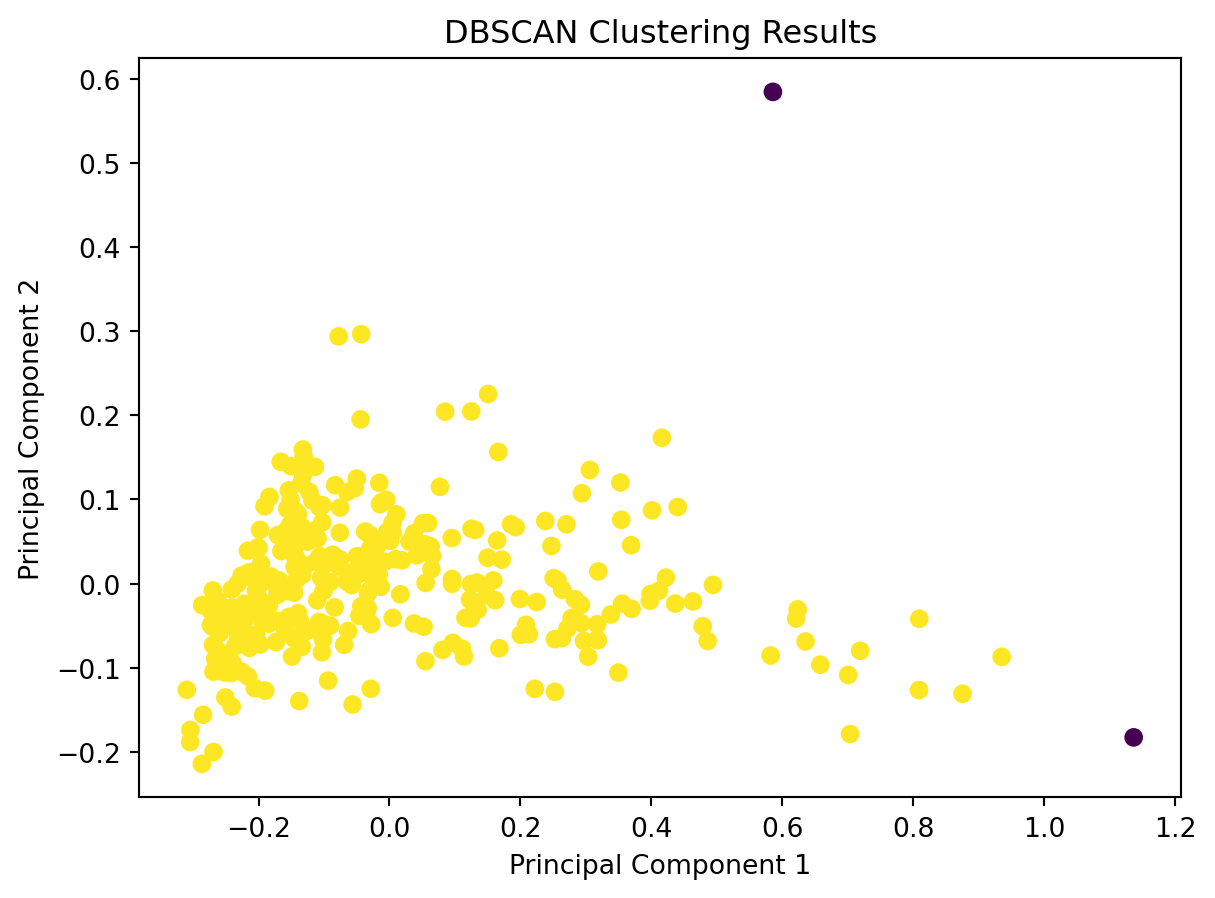
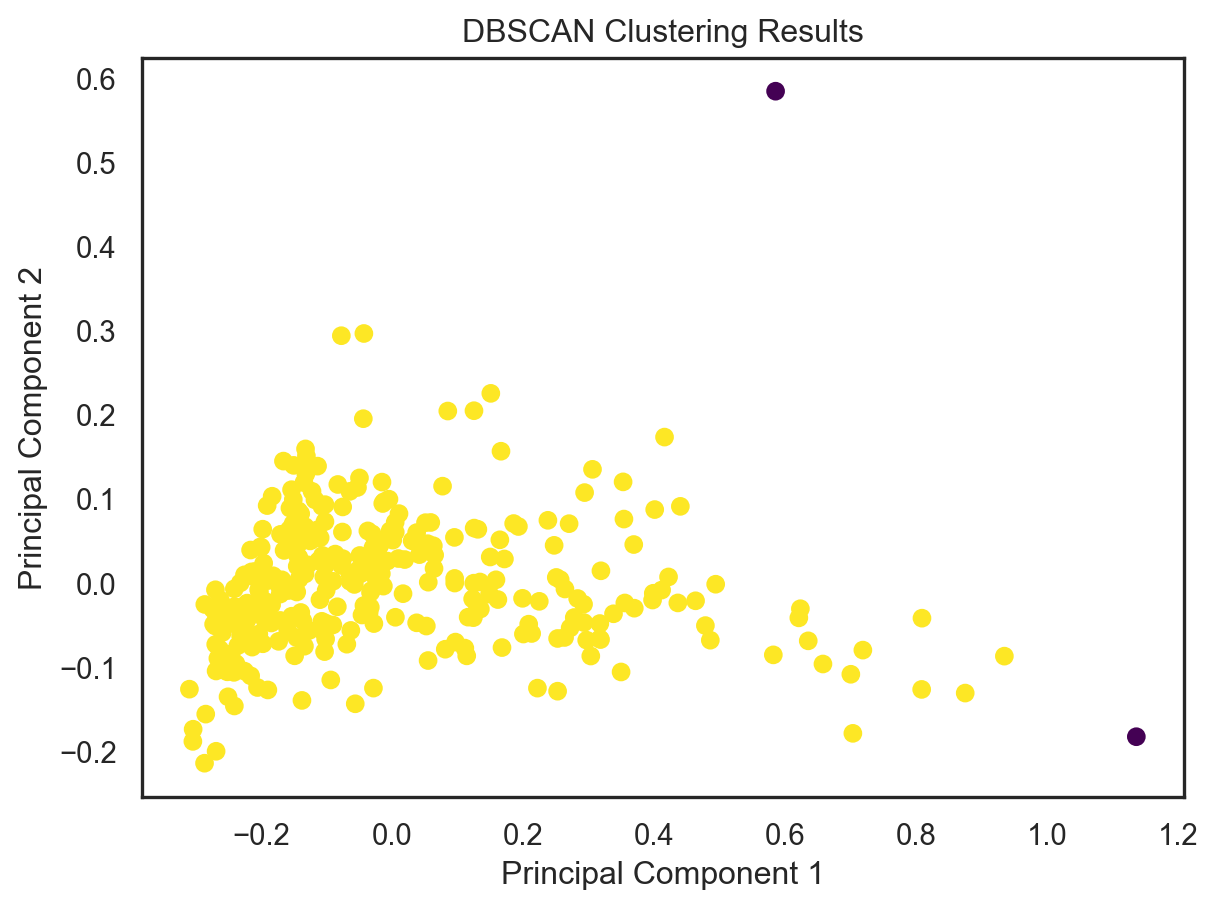
commit #outlier again

diff --git a/docs/posts/Outlier/index.html b/docs/posts/Outlier/index.html
@@ -200,7 +200,7 @@ pre > code.sourceCode > span > a:first-child::before { text-decoration: underlin
 <span id="cb2-5"><a href="#cb2-5" aria-hidden="true" tabindex="-1"></a></span>
 <span id="cb2-6"><a href="#cb2-6" aria-hidden="true" tabindex="-1"></a><span class="co"># Display the first few rows of the data</span></span>
 <span id="cb2-7"><a href="#cb2-7" aria-hidden="true" tabindex="-1"></a>data</span></code><button title="Copy to Clipboard" class="code-copy-button"><i class="bi"></i></button></pre></div>
-<div class="cell-output cell-output-display" data-execution_count="10">
+<div class="cell-output cell-output-display" data-execution_count="33">
 <div>
 
 
@@ -398,7 +398,7 @@ pre > code.sourceCode > span > a:first-child::before { text-decoration: underlin
 <p>Identify null data</p>
 <div class="cell" data-execution_count="3">
 <div class="sourceCode cell-code" id="cb3"><pre class="sourceCode python code-with-copy"><code class="sourceCode python"><span id="cb3-1"><a href="#cb3-1" aria-hidden="true" tabindex="-1"></a>data.<span class="bu">apply</span>(pd.isnull).<span class="bu">sum</span>()<span class="op">/</span>data.shape[<span class="dv">0</span>]</span></code><button title="Copy to Clipboard" class="code-copy-button"><i class="bi"></i></button></pre></div>
-<div class="cell-output cell-output-display" data-execution_count="11">
+<div class="cell-output cell-output-display" data-execution_count="34">
 <pre><code>Player            0.0
 Span              0.0
 Mat               0.0
@@ -416,7 +416,7 @@ dtype: float64</code></pre>
 </div>
 <div class="cell" data-execution_count="4">
 <div class="sourceCode cell-code" id="cb5"><pre class="sourceCode python code-with-copy"><code class="sourceCode python"><span id="cb5-1"><a href="#cb5-1" aria-hidden="true" tabindex="-1"></a>data.describe(include<span class="op">=</span><span class="st">'object'</span>)</span></code><button title="Copy to Clipboard" class="code-copy-button"><i class="bi"></i></button></pre></div>
-<div class="cell-output cell-output-display" data-execution_count="12">
+<div class="cell-output cell-output-display" data-execution_count="35">
 <div>
 
 
@@ -504,7 +504,7 @@ dtype: float64</code></pre>
 <div class="sourceCode cell-code" id="cb6"><pre class="sourceCode python code-with-copy"><code class="sourceCode python"><span id="cb6-1"><a href="#cb6-1" aria-hidden="true" tabindex="-1"></a>cricket<span class="op">=</span>data[[<span class="st">"Player"</span>,<span class="st">"Span"</span>,<span class="st">"Mat"</span>,<span class="st">"Inn"</span>,<span class="st">"Runs"</span>,<span class="st">"Avg"</span>,<span class="st">"100"</span>,<span class="st">"50"</span>]].copy()</span>
 <span id="cb6-2"><a href="#cb6-2" aria-hidden="true" tabindex="-1"></a>cricket.columns<span class="op">=</span>[<span class="st">"player"</span>,<span class="st">"span"</span>,<span class="st">"mat"</span>,<span class="st">"inn"</span>,<span class="st">"runs"</span>,<span class="st">"avg"</span>,<span class="st">"100"</span>,<span class="st">"50"</span>]</span>
 <span id="cb6-3"><a href="#cb6-3" aria-hidden="true" tabindex="-1"></a>cricket.head()</span></code><button title="Copy to Clipboard" class="code-copy-button"><i class="bi"></i></button></pre></div>
-<div class="cell-output cell-output-display" data-execution_count="13">
+<div class="cell-output cell-output-display" data-execution_count="36">
 <div>
 
 
@@ -594,7 +594,7 @@ dtype: float64</code></pre>
 <span id="cb7-6"><a href="#cb7-6" aria-hidden="true" tabindex="-1"></a></span>
 <span id="cb7-7"><a href="#cb7-7" aria-hidden="true" tabindex="-1"></a><span class="co"># Display the filtered data in column form</span></span>
 <span id="cb7-8"><a href="#cb7-8" aria-hidden="true" tabindex="-1"></a>batsman.head()</span></code><button title="Copy to Clipboard" class="code-copy-button"><i class="bi"></i></button></pre></div>
-<div class="cell-output cell-output-display" data-execution_count="14">
+<div class="cell-output cell-output-display" data-execution_count="37">
 <div>
 
 
@@ -681,7 +681,7 @@ dtype: float64</code></pre>
 <span id="cb8-4"><a href="#cb8-4" aria-hidden="true" tabindex="-1"></a><span class="co"># Display the DataFrame with the country names removed</span></span>
 <span id="cb8-5"><a href="#cb8-5" aria-hidden="true" tabindex="-1"></a></span>
 <span id="cb8-6"><a href="#cb8-6" aria-hidden="true" tabindex="-1"></a>batsman.tail()</span></code><button title="Copy to Clipboard" class="code-copy-button"><i class="bi"></i></button></pre></div>
-<div class="cell-output cell-output-display" data-execution_count="15">
+<div class="cell-output cell-output-display" data-execution_count="38">
 <div>
 
 
@@ -769,7 +769,7 @@ dtype: float64</code></pre>
 <span id="cb9-5"><a href="#cb9-5" aria-hidden="true" tabindex="-1"></a></span>
 <span id="cb9-6"><a href="#cb9-6" aria-hidden="true" tabindex="-1"></a></span>
 <span id="cb9-7"><a href="#cb9-7" aria-hidden="true" tabindex="-1"></a>batsman.head()</span></code><button title="Copy to Clipboard" class="code-copy-button"><i class="bi"></i></button></pre></div>
-<div class="cell-output cell-output-display" data-execution_count="16">
+<div class="cell-output cell-output-display" data-execution_count="39">
 <div>
 
 
@@ -888,7 +888,7 @@ Try using .loc[row_indexer,col_indexer] = value instead
 See the caveats in the documentation: https://pandas.pydata.org/pandas-docs/stable/user_guide/indexing.html#returning-a-view-versus-a-copy
 </code></pre>
 </div>
-<div class="cell-output cell-output-display" data-execution_count="18">
+<div class="cell-output cell-output-display" data-execution_count="41">
 <div>
 
 
@@ -1078,7 +1078,7 @@ See the caveats in the documentation: https://pandas.pydata.org/pandas-docs/stab
 <div class="cell" data-execution_count="12">
 <div class="sourceCode cell-code" id="cb14"><pre class="sourceCode python code-with-copy"><code class="sourceCode python"><span id="cb14-1"><a href="#cb14-1" aria-hidden="true" tabindex="-1"></a>batsman <span class="op">=</span> batsman.drop([<span class="st">'player'</span>], axis <span class="op">=</span> <span class="dv">1</span>)</span>
 <span id="cb14-2"><a href="#cb14-2" aria-hidden="true" tabindex="-1"></a>batsman.head()</span></code><button title="Copy to Clipboard" class="code-copy-button"><i class="bi"></i></button></pre></div>
-<div class="cell-output cell-output-display" data-execution_count="20">
+<div class="cell-output cell-output-display" data-execution_count="43">
 <div>
 
 
@@ -1191,7 +1191,7 @@ See the caveats in the documentation: https://pandas.pydata.org/pandas-docs/stab
 <span id="cb16-15"><a href="#cb16-15" aria-hidden="true" tabindex="-1"></a>batter <span class="op">=</span> pca.fit_transform(scaled_data)</span>
 <span id="cb16-16"><a href="#cb16-16" aria-hidden="true" tabindex="-1"></a></span>
 <span id="cb16-17"><a href="#cb16-17" aria-hidden="true" tabindex="-1"></a>batter</span></code><button title="Copy to Clipboard" class="code-copy-button"><i class="bi"></i></button></pre></div>
-<div class="cell-output cell-output-display" data-execution_count="22">
+<div class="cell-output cell-output-display" data-execution_count="45">
 <pre><code>array([[ 1.13670075e+00, -1.82729263e-01],
        [ 8.75321769e-01, -1.30877512e-01],
        [ 9.35142180e-01, -8.70045354e-02],
@@ -1521,7 +1521,7 @@ See the caveats in the documentation: https://pandas.pydata.org/pandas-docs/stab
 <span id="cb20-4"><a href="#cb20-4" aria-hidden="true" tabindex="-1"></a>pl.title(<span class="st">'PCA Results'</span>)</span>
 <span id="cb20-5"><a href="#cb20-5" aria-hidden="true" tabindex="-1"></a>pl.show()</span></code><button title="Copy to Clipboard" class="code-copy-button"><i class="bi"></i></button></pre></div>
 <div class="cell-output cell-output-display">
-<p><img src="index_files/figure-html/cell-17-output-1.png" width="608" height="449"></p>
+<p><img src="index_files/figure-html/cell-17-output-1.png" width="609" height="455"></p>
 </div>
 </div>
 <div class="cell" data-execution_count="17">
@@ -1576,7 +1576,7 @@ See the caveats in the documentation: https://pandas.pydata.org/pandas-docs/stab
 <span id="cb25-13"><a href="#cb25-13" aria-hidden="true" tabindex="-1"></a>pl.title(<span class="st">'DBSCAN Clustering Results'</span>)</span>
 <span id="cb25-14"><a href="#cb25-14" aria-hidden="true" tabindex="-1"></a>pl.show()</span></code><button title="Copy to Clipboard" class="code-copy-button"><i class="bi"></i></button></pre></div>
 <div class="cell-output cell-output-display">
-<p><img src="index_files/figure-html/cell-20-output-1.png" width="608" height="449"></p>
+<p><img src="index_files/figure-html/cell-20-output-1.png" width="609" height="455"></p>
 </div>
 </div>
 <div class="cell" data-execution_count="20">
@@ -1586,7 +1586,7 @@ See the caveats in the documentation: https://pandas.pydata.org/pandas-docs/stab
 <span id="cb26-4"><a href="#cb26-4" aria-hidden="true" tabindex="-1"></a></span>
 <span id="cb26-5"><a href="#cb26-5" aria-hidden="true" tabindex="-1"></a><span class="co"># Display the resulting DataFrame</span></span>
 <span id="cb26-6"><a href="#cb26-6" aria-hidden="true" tabindex="-1"></a>new_batsman</span></code><button title="Copy to Clipboard" class="code-copy-button"><i class="bi"></i></button></pre></div>
-<div class="cell-output cell-output-display" data-execution_count="28">
+<div class="cell-output cell-output-display" data-execution_count="51">
 <div>
 
 
@@ -1705,7 +1705,7 @@ See the caveats in the documentation: https://pandas.pydata.org/pandas-docs/stab
 <span id="cb27-17"><a href="#cb27-17" aria-hidden="true" tabindex="-1"></a><span class="co"># Display the plot</span></span>
 <span id="cb27-18"><a href="#cb27-18" aria-hidden="true" tabindex="-1"></a>pl.show()</span></code><button title="Copy to Clipboard" class="code-copy-button"><i class="bi"></i></button></pre></div>
 <div class="cell-output cell-output-display">
-<p><img src="index_files/figure-html/cell-22-output-1.png" width="870" height="515"></p>
+<p><img src="index_files/figure-html/cell-22-output-1.png" width="862" height="518"></p>
 </div>
 </div>
 <div class="cell" data-execution_count="22">
